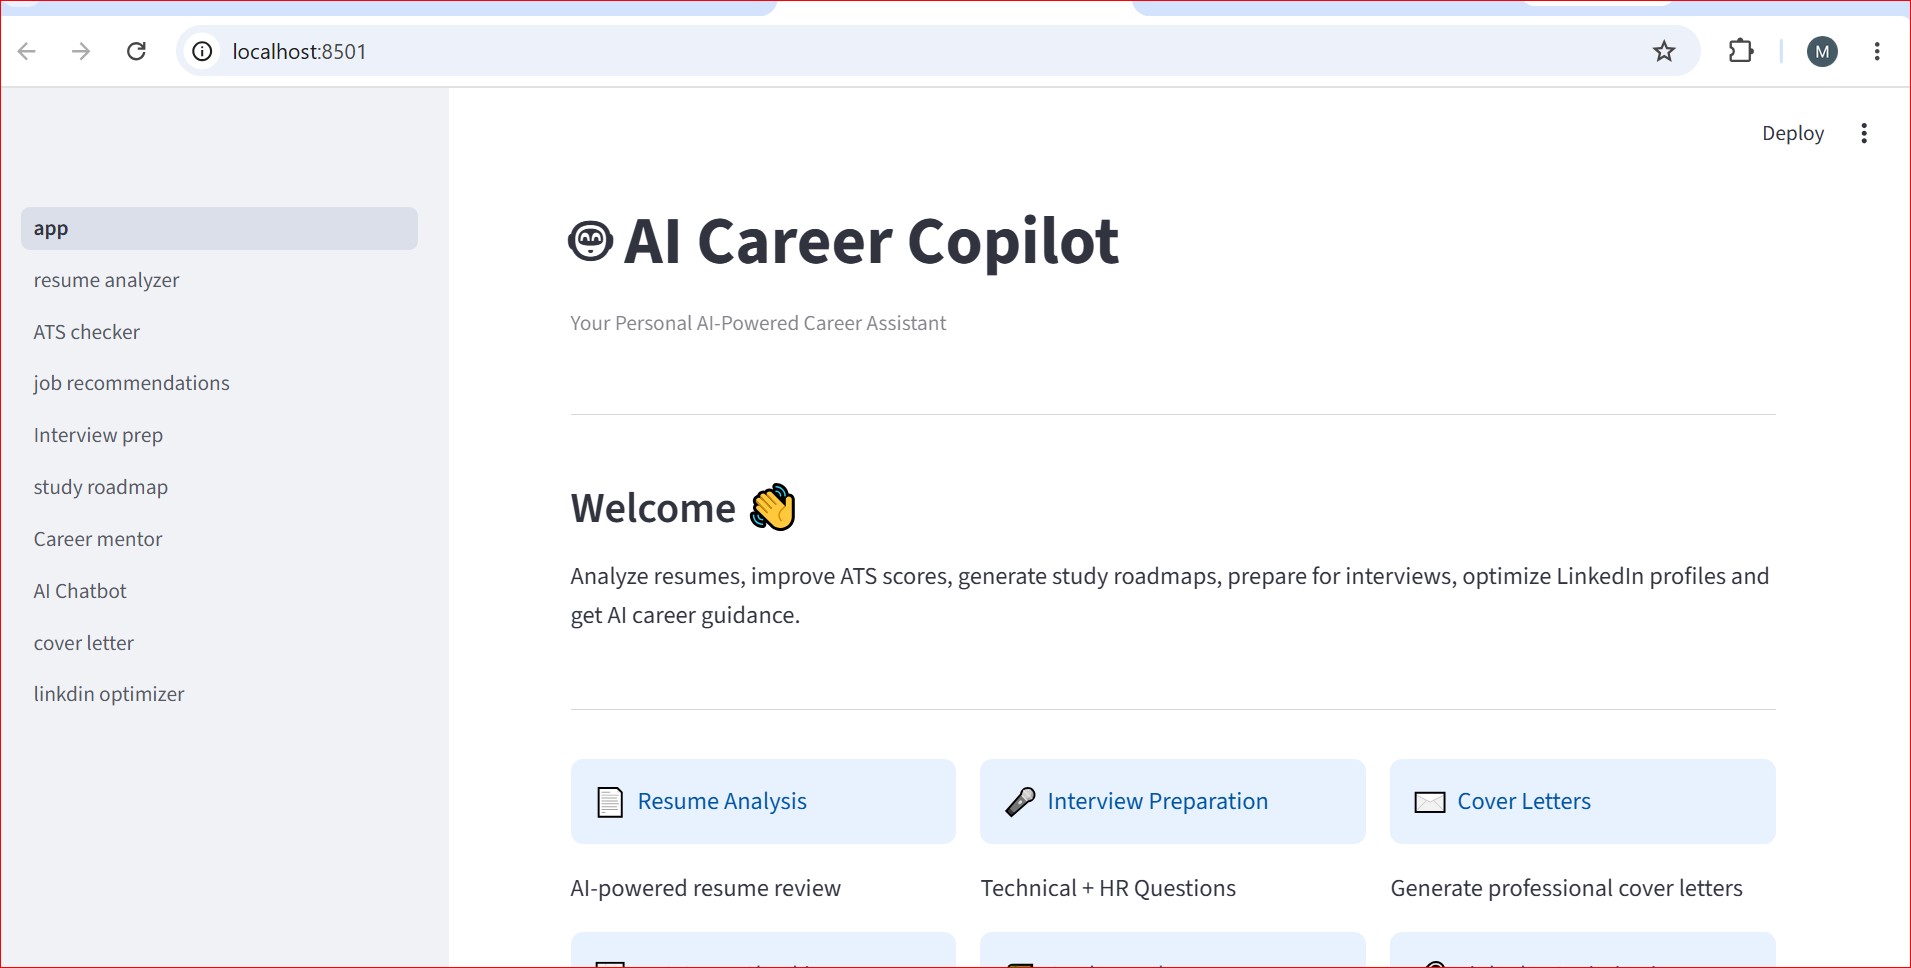
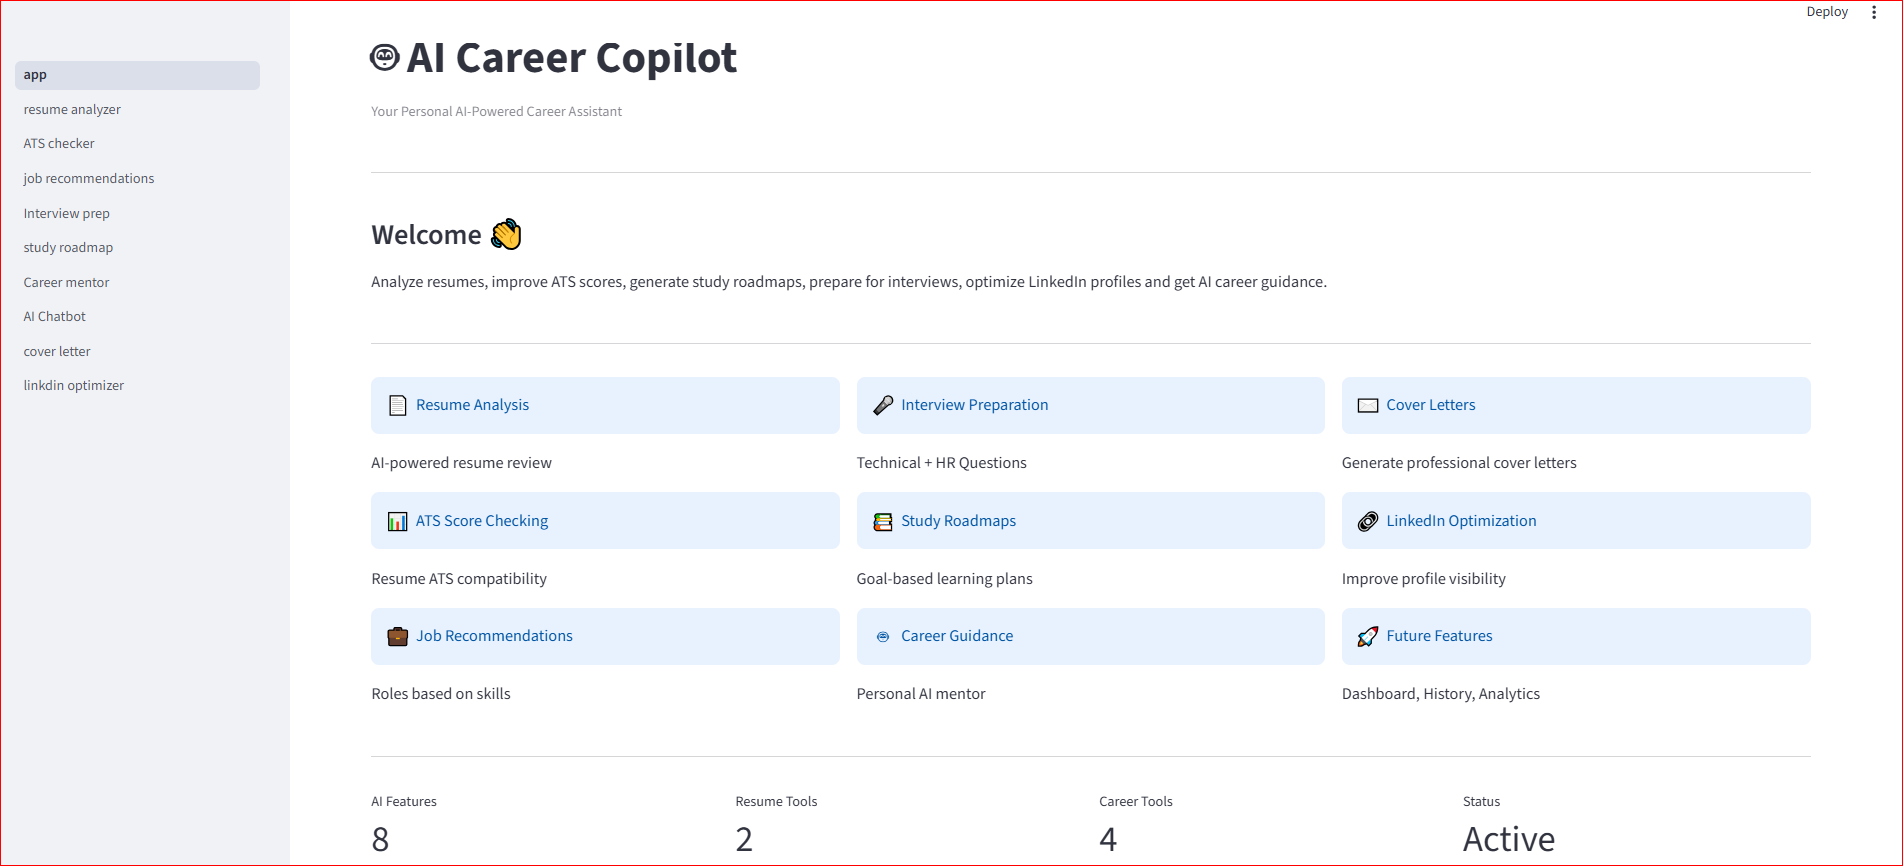
Add professional README

diff --git a/frontend/utils/api_client.py b/frontend/utils/api_client.py
@@ -2,26 +2,44 @@ import requests
 
 BASE_URL = "http://127.0.0.1:8000"
 
-
 def ask_ai(prompt):
 
-    response = requests.post(
-        f"{BASE_URL}/generate",
-        json={"prompt": prompt}
-    )
+    try:
 
-    return response.json()
+        response = requests.post(
+            f"{BASE_URL}/generate",
+            json={
+                "prompt": prompt
+            }
+        )
 
+        return response.json()
+
+    except Exception as e:
+
+        return {
+            "success": False,
+            "error": str(e)
+        }
 
 def analyze_resume(file):
 
-    files = {
-        "file": file
-    }
+    try:
 
-    response = requests.post(
-        f"{BASE_URL}/resume-analysis",
-        files=files
-    )
+        files = {
+            "file": file
+        }
 
-    return response.json()
+        response = requests.post(
+            f"{BASE_URL}/resume-analysis",
+            files=files
+        )
+
+        return response.json()
+
+    except Exception as e:
+
+        return {
+            "success": False,
+            "error": str(e)
+        }

diff --git a/backend/main.py b/backend/main.py
@@ -1,26 +1,15 @@
 from fastapi import FastAPI, UploadFile, File
 from pydantic import BaseModel
-from dotenv import load_dotenv
-from openai import OpenAI
 from backend.resume_parser import extract_text
 from backend.ai_service import ask_openai
-import os
-
-load_dotenv()
-
-client = OpenAI(
-    api_key=os.getenv("OPENAI_API_KEY")
-)
 
 app = FastAPI(
     title="AI Career Copilot",
     version="1.0"
 )
 
-
 class UserPrompt(BaseModel):
     prompt: str
-
 
 @app.get("/")
 def home():
@@ -29,20 +18,18 @@ def home():
         "status": "Running"
     }
 
-
 @app.post("/generate")
 def generate(user_input: UserPrompt):
 
     try:
 
-        response = client.responses.create(
-            model="gpt-4.1-mini",
-            input=user_input.prompt
+        response = ask_openai(
+            user_input.prompt
         )
 
         return {
             "success": True,
-            "response": response.output_text
+            "response": response
         }
 
     except Exception as e:
@@ -51,7 +38,6 @@ def generate(user_input: UserPrompt):
             "success": False,
             "error": str(e)
         }
-
 
 @app.post("/resume-analysis")
 async def resume_analysis(
@@ -63,19 +49,20 @@ async def resume_analysis(
         resume_text = extract_text(file)
 
         prompt = f"""
-        Analyze this resume.
+        Analyze this resume carefully.
 
         Resume:
 
         {resume_text}
 
-        Give:
+        Provide:
 
         1. Strengths
         2. Weaknesses
         3. Missing Skills
-        4. Hiring Chances
-        5. Improvement Suggestions
+        4. ATS Score
+        5. Hiring Chances
+        6. Suggestions
         """
 
         analysis = ask_openai(prompt)

diff --git a/backend/ai_service.py b/backend/ai_service.py
@@ -1,19 +1,24 @@
-from openai import OpenAI
+from groq import Groq
 from dotenv import load_dotenv
 import os
 
 load_dotenv()
 
-client = OpenAI(
-    api_key=os.getenv("OPENAI_API_KEY")
+client = Groq(
+    api_key=os.getenv("GROQ_API_KEY")
 )
-
 
 def ask_openai(prompt):
 
-    response = client.responses.create(
-        model="gpt-4.1-mini",
-        input=prompt
+    response = client.chat.completions.create(
+        model="llama-3.3-70b-versatile",
+        messages=[
+            {
+                "role": "user",
+                "content": prompt
+            }
+        ],
+        temperature=0.7
     )
 
-    return response.output_text
+    return response.choices[0].message.content

diff --git a/README.md b/README.md
@@ -1,64 +1,25 @@
-# AI Career Copilot
+# AI-Career-Copilot
+AI-powered career assistant built with FastAPI, Streamlit, Python, and OpenAI for resume analysis, ATS scoring, job recommendations, interview preparation, and personalized study roadmaps.
 
-AI Career Copilot is a full-stack AI-powered career assistant built with Python, FastAPI, Streamlit, and OpenAI APIs.
+
 
 ## Features
-
-* Resume Analysis
-* ATS Score Checker
-* Job Recommendations
-* Interview Preparation
-* Study Roadmap Generator
-* Career Mentor
-* AI Chatbot
-* Cover Letter Generator
-* LinkedIn Profile Optimizer
+- Resume Analyzer
+- ATS Score Checker
+- Job Recommendations
+- Interview Preparation
+- Study Roadmap Generator
 
 ## Tech Stack
-
-### Backend
-
-* Python
-* FastAPI
-* OpenAI API
-
-### Frontend
-
-* Streamlit
-
-### Tools
-
-* Git
-* GitHub
+- Python
+- FastAPI
+- Streamlit
+- OpenAI API
 
 ## Project Structure
 
-backend/
+## Installation
 
-* API endpoints
-* Resume parsing
-* AI services
+## Usage
 
-frontend/
-
-* Streamlit dashboard
-* Career tools pages
-
-screenshots/
-
-* Project screenshots
-
-## Future Improvements
-
-* User Authentication
-* Database Integration
-* Job Search API Integration
-* Resume Builder
-* AI Mock Interviews
-
-## Author
-
-Muskan
-B.Tech (KUK '26)
-Aspiring Software Engineer
-
+## Future Enhancements